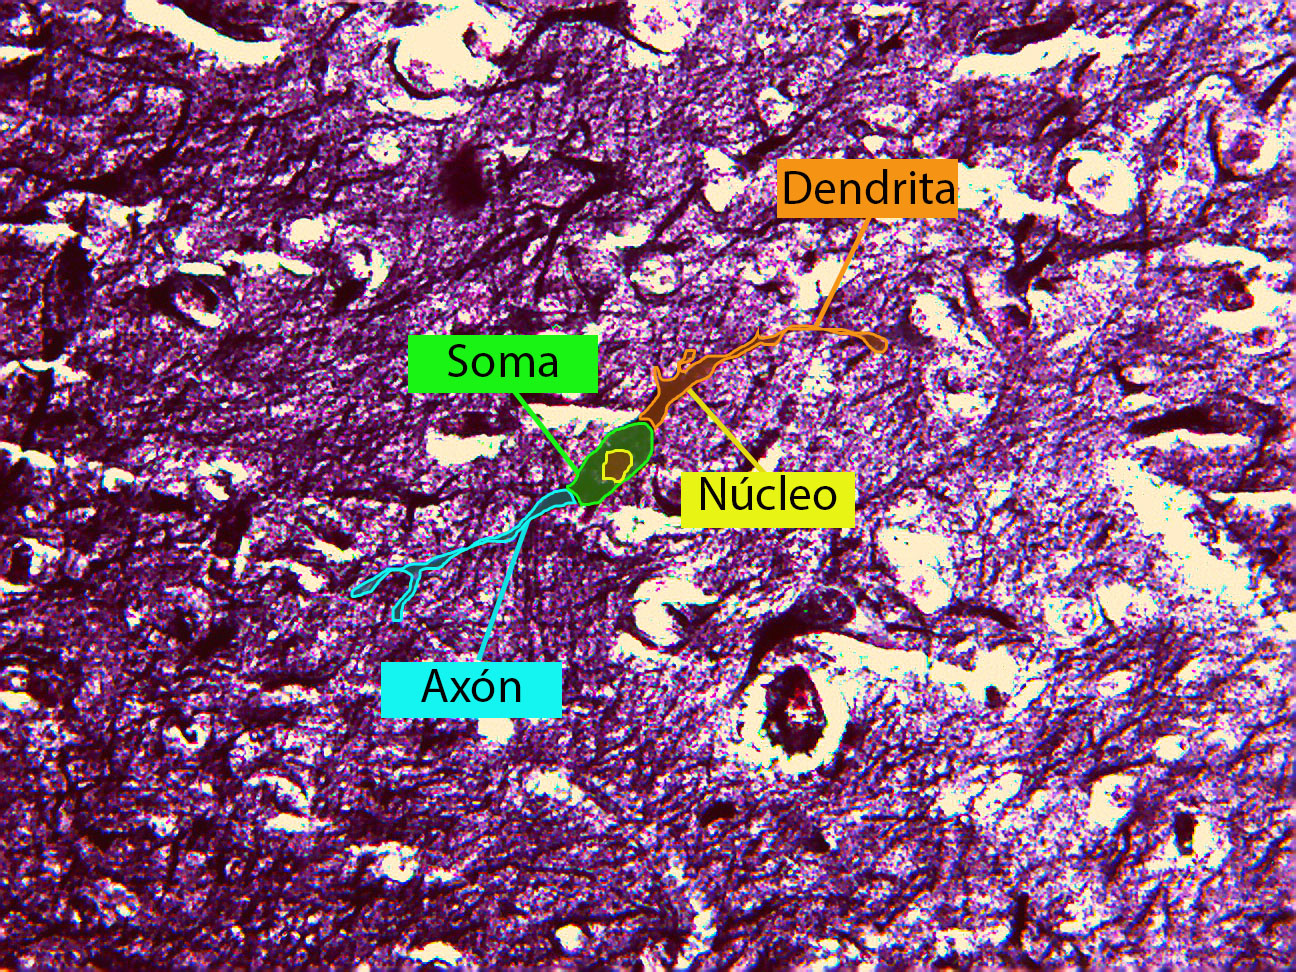
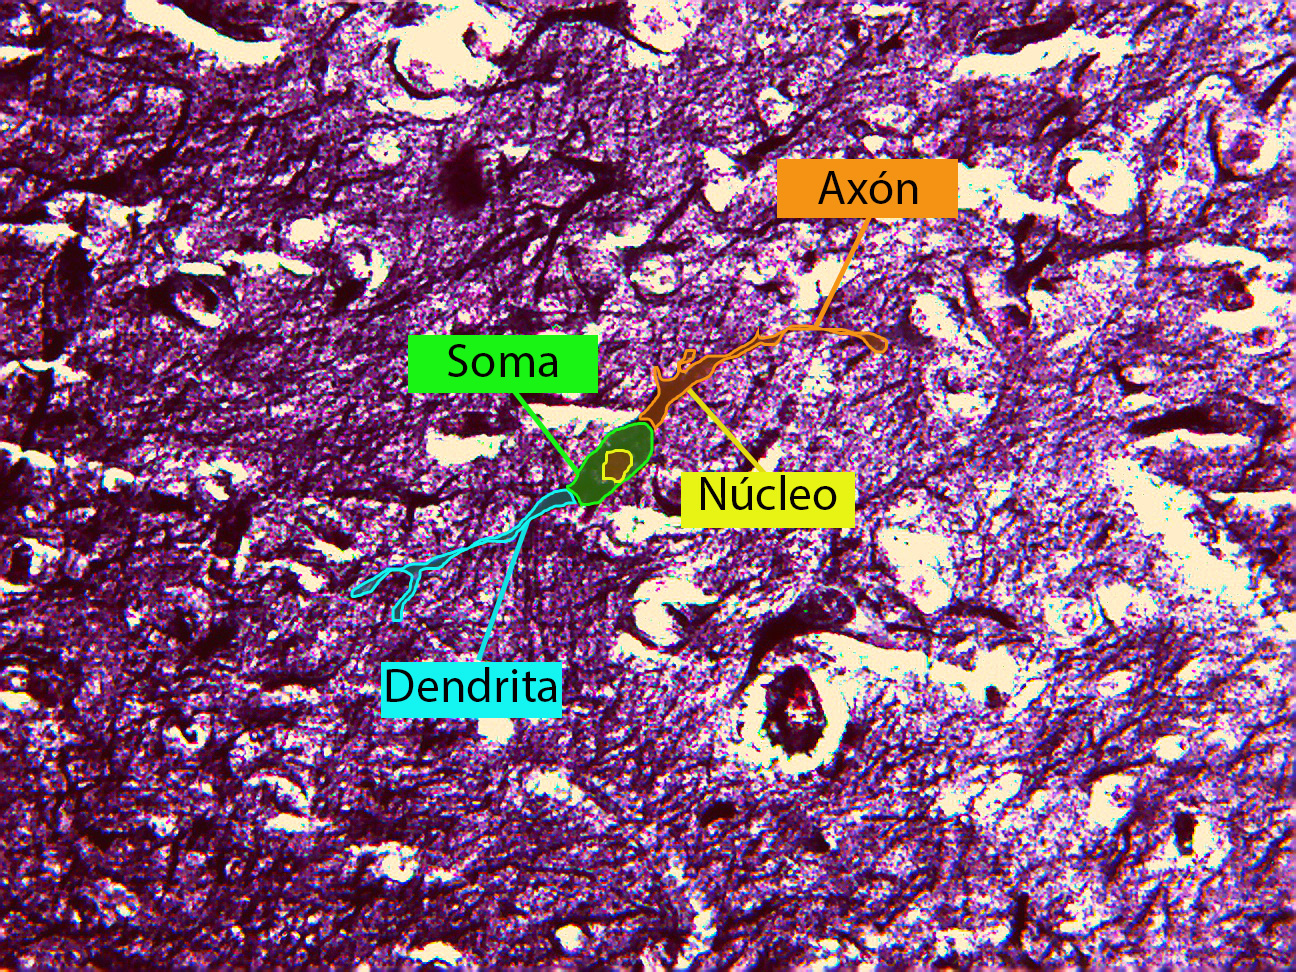
feat: 🍱 update image

Changed region(s): [[0.2778, 0.679, 0.4321, 0.7407], [0.5864, 0.1543, 0.7407, 0.216]]

diff --git a/nerviosos/assets/Modulo 4/html/figura11.2.html b/nerviosos/assets/Modulo 4/html/figura11.2.html
@@ -62,8 +62,8 @@
         fusiforme. Su soma (sombreado de verde) posee una forma alargada o
         elipsoidal, mientras su núcleo (sombreado de amarillo), se encuentra en
         la región central con una forma esférica. Por último, en polos opuestos
-        del soma, emergen las proyecciones (sombreado de azul encontraríamos el
-        axón; y de naranja se sombrea las dendritas).
+        del soma, emergen las proyecciones (sombreado de naranja encontraríamos
+        el axón; y de azul se sombrea las dendritas).
       </p>
     </center>
   </body>

diff --git a/nerviosos/assets/Modulo 4/html/figura11.html b/nerviosos/assets/Modulo 4/html/figura11.html
@@ -62,8 +62,8 @@
         fusiforme. Su soma (sombreado de verde) posee una forma alargada o
         elipsoidal, mientras su núcleo (sombreado de amarillo), se encuentra en
         la región central con una forma esférica. Por último, en polos opuestos
-        del soma, emergen las proyecciones (sombreado de azul encontraríamos el
-        axón; y de naranja se sombrea las dendritas).
+        del soma, emergen las proyecciones (sombreado de naranja encontraríamos
+        el axón; y de azul se sombrea las dendritas).
       </p>
     </center>
   </body>
